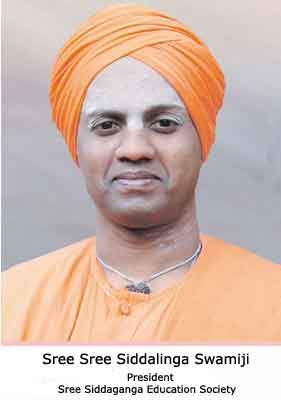
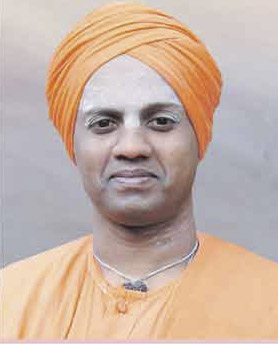
SwamijiPicChange

diff --git a/committees.html b/committees.html
@@ -60,14 +60,18 @@
             <div class="row text-center">
                 <div class="col-md-12 col-xl-10 text-center mx-auto">
                     <h2 class="text-center text-info">CHIEF PATRON</h2>
-                    <div><img data-aos="zoom-in" data-aos-duration="1050" class="rounded-circle" src="assets/img/swami2.jpg" style="height: 300px;margin-bottom: 30px;padding-bottom: 10px;"></div>
+                    <div><img data-aos="zoom-in" data-aos-duration="1050" class="rounded-circle" src="assets/img/swami2.jpg" style="height: 300px;margin-bottom: 30px;padding-bottom: 10px;">
+                        <h5 style="margin: 0px;"><span style="color: rgb(62, 69, 85);">Sree Sree Siddalinga Swamiji</span></h5>
+                        <h6 style="margin: 0px;"><span style="color: rgb(171, 170, 170);">President</span></h6>
+                        <h6 style="margin: 0px;"><span style="color: rgb(171, 170, 170);">Sree Siddaganga Education Society</span></h6>
+                    </div>
                 </div>
             </div>
         </div>
         <div class="container text-center" id="patron">
             <div class="row text-center">
                 <div class="col-md-12 col-xl-11 text-center mx-auto" data-aos="fade-up">
-                    <h2 class="text-center text-info">PATRONS</h2><div class="py-5 team4">
+                    <h2 class="text-center text-info" style="margin-top: 15px;">PATRONS</h2><div class="py-5 team4">
   <div class="container">
     <div class="row justify-content-center mb-4">
       <div class="col-md-7 text-center">
